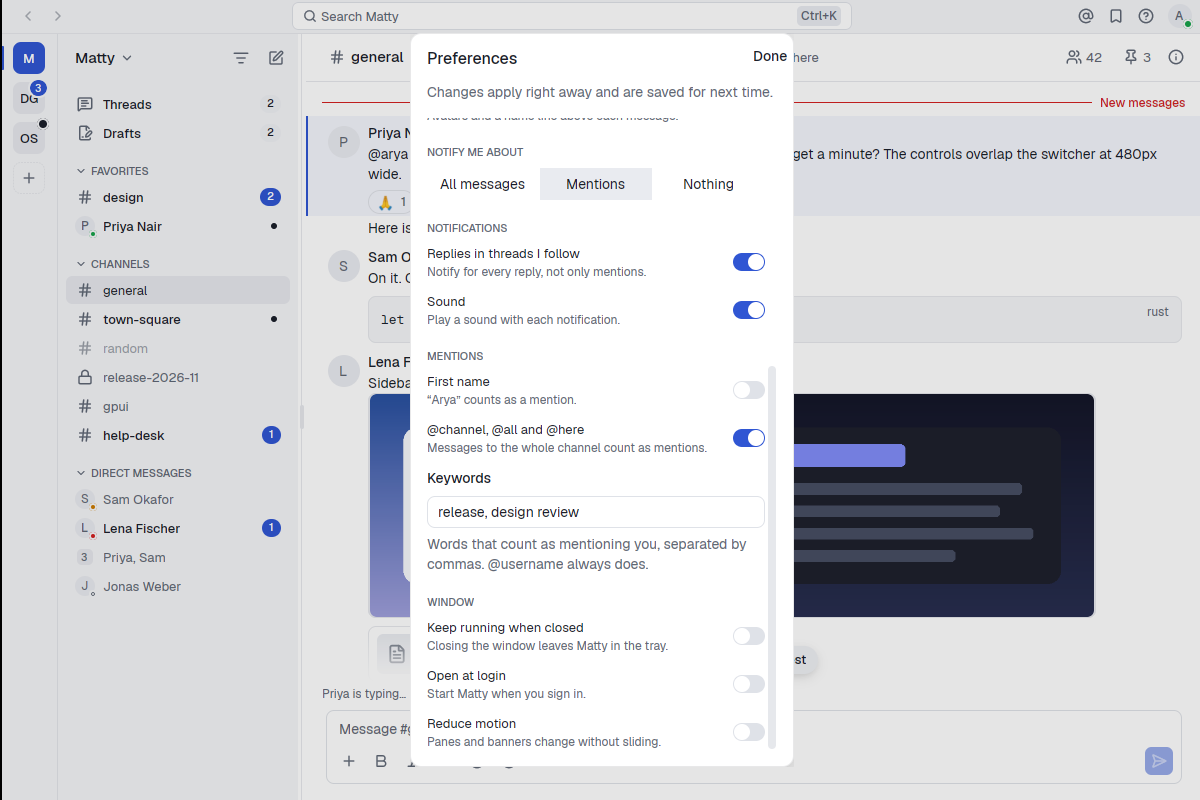
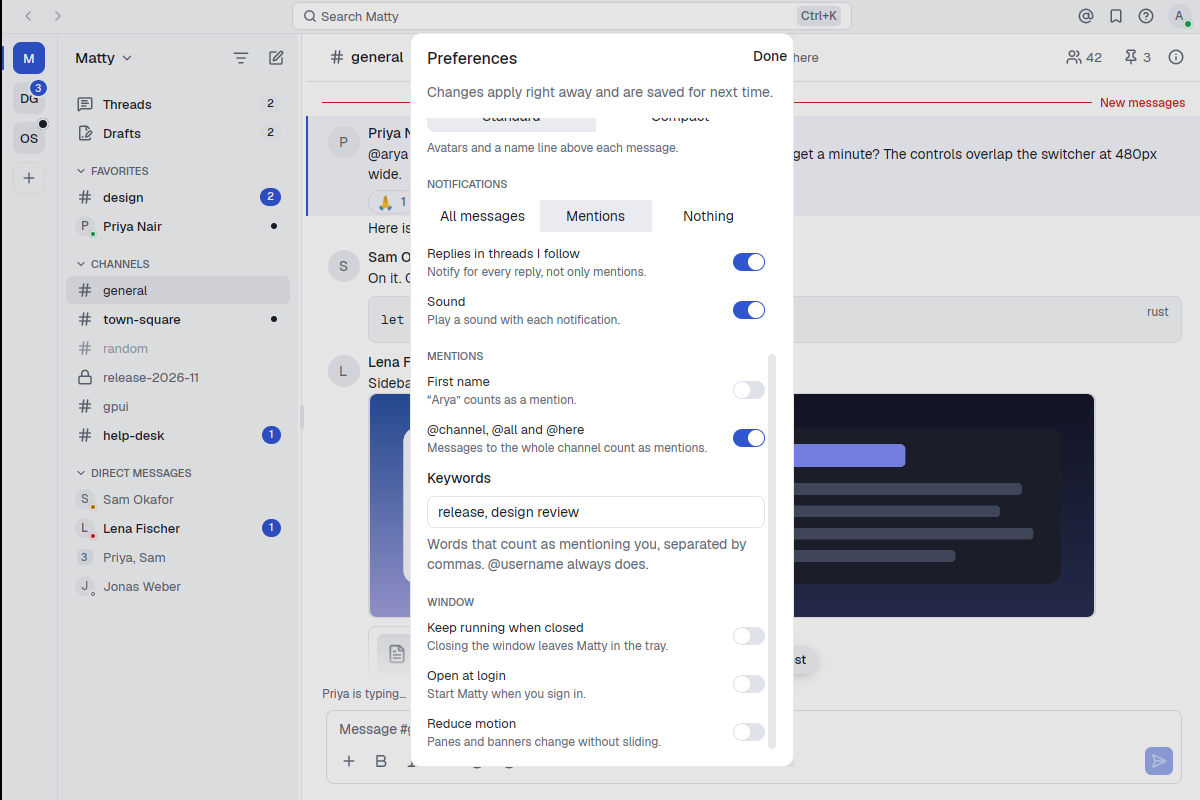
Put Notify me about under the Notifications heading
Design review: one Notifications section, with the level toggle above the
thread-reply and sound switches.

Claude-Session: https://claude.ai/code/session_017QMGXwHzbkz4RPjfZ4Xs21

diff --git a/crates/matty-app/src/main_window.rs b/crates/matty-app/src/main_window.rs
@@ -2673,13 +2673,13 @@ impl MainWindow {
             .flex()
             .flex_col()
             .gap(theme.space(5.))
-            .child(section("Notify me about", desktop.into_any_element()))
             .child(section(
                 "Notifications",
                 div()
                     .flex()
                     .flex_col()
                     .gap(theme.space(3.))
+                    .child(desktop)
                     .child(switch(
                         "preferences.desktop-threads",
                         "Replies in threads I follow",
